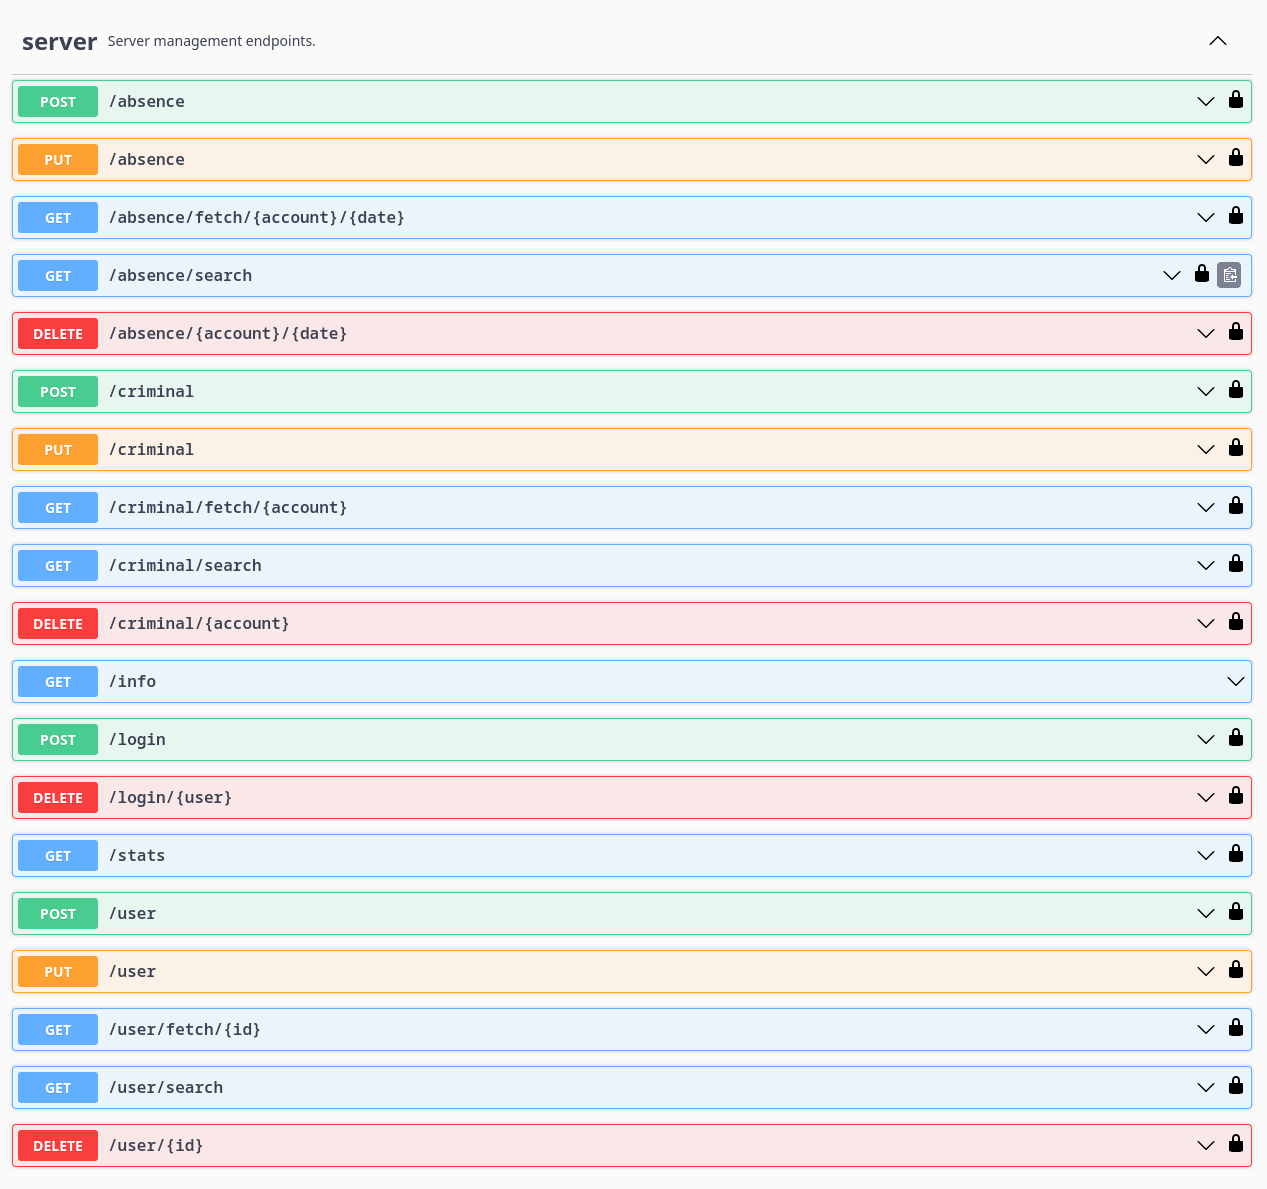
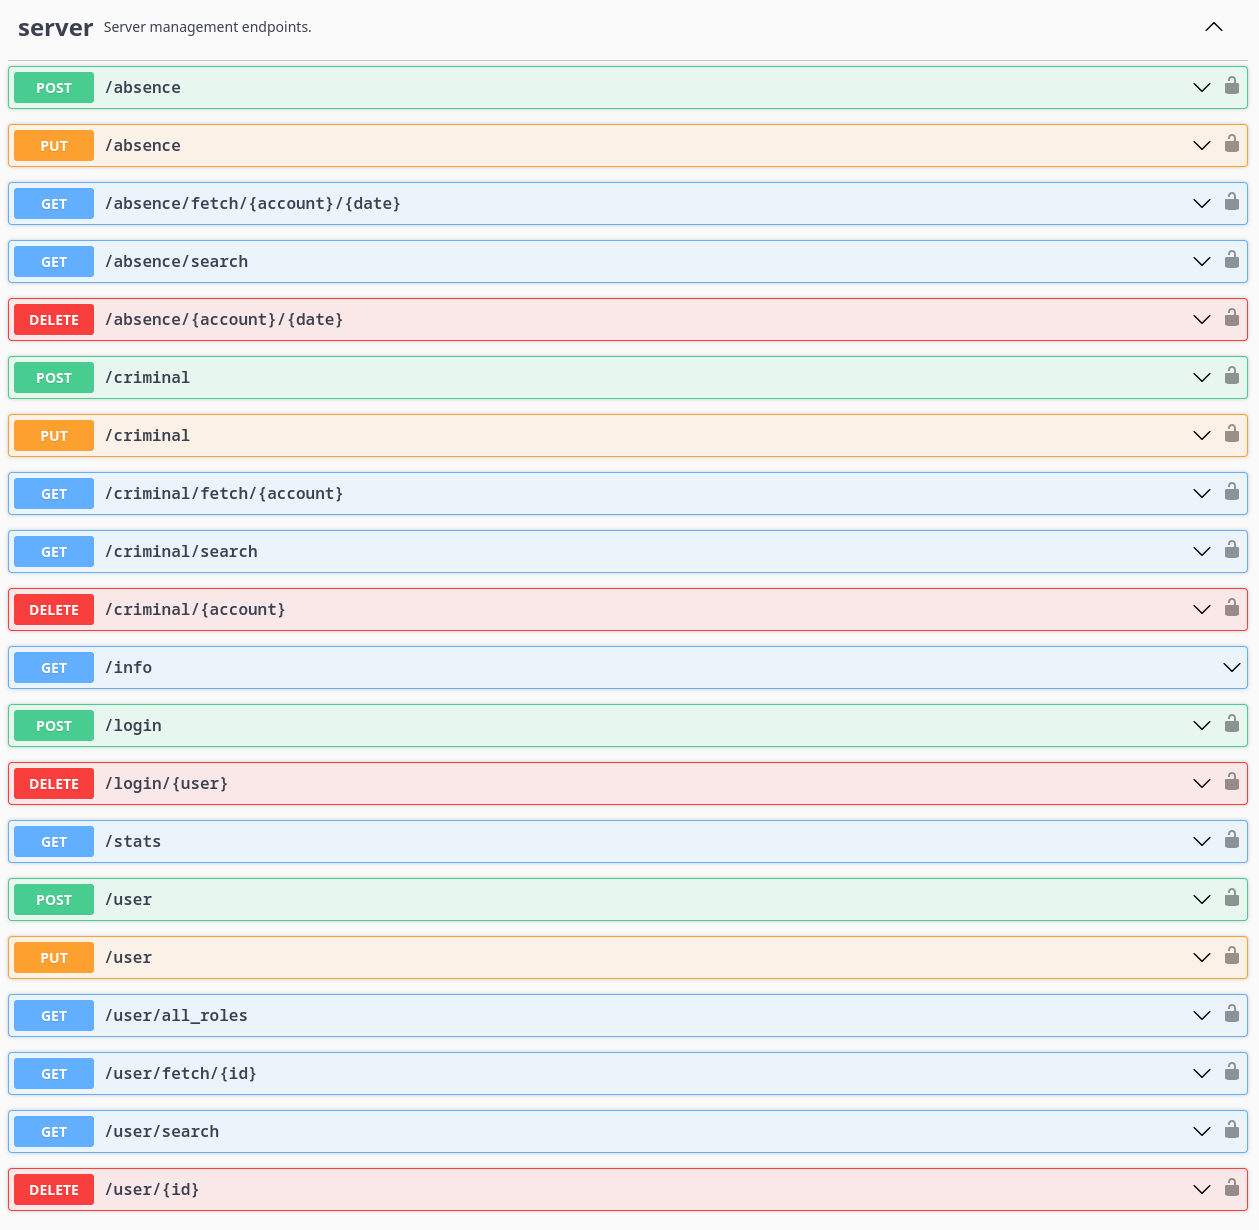
:sparkles: Added all roles route

Changed region(s): [[0.0, 0.0, 0.9913, 0.9958]]

diff --git a/src/db/user.rs b/src/db/user.rs
@@ -47,6 +47,21 @@ pub fn fetch(db: &Database, id: &str) -> Result<User> {
     )?)
 }
 
+/// Returns all roles from the user table
+pub fn all_roles(db: &Database) -> Result<Vec<String>> {
+    let mut stmt = db.con.prepare(
+        "select \
+        role \
+        from user",
+    )?;
+    let mut rows = stmt.query([])?;
+    let mut roles = Vec::new();
+    while let Some(row) = rows.next()? {
+        roles.push(row.get(0).unwrap());
+    }
+    Ok(roles)
+}
+
 /// Parameters for the advanced search
 ///
 /// Adding the '%' char allows every number of every character in this place
@@ -171,7 +186,7 @@ mod tests {
     use crate::db::project::{create, Database};
     use crate::db::user::{self, User, UserSearch};
     #[test]
-    fn add_update_remove_users() {
+    fn add_update_remove_users_all_roles() {
         let db = Database::memory().unwrap();
         create(&db).unwrap();
 
@@ -186,6 +201,10 @@ mod tests {
         let result = user::search(&db, UserSearch::new("%", "%"), 0).unwrap();
         assert_eq!(result.len(), 1);
         assert_eq!(result[0], user);
+
+        let result = user::all_roles(&db).unwrap();
+        assert_eq!(result.len(), 1);
+        assert_eq!(result[0], "Demo".to_string());
 
         user::update(
             &db,

diff --git a/src/server.rs b/src/server.rs
@@ -180,6 +180,22 @@ pub async fn fetch_user(auth: Auth<UserReadOnly>, id: &str) -> Json<Result<User>
 
 #[utoipa::path(
     responses(
+        (status = 200, description = "Got all Roles", body = Vec<String>),
+        (status = 401, description = "Unauthorized to get all Roles", body = Error, example = json!({"Err": Error::Unauthorized})),
+    ),
+    security (
+        ("authorization" = []),
+    )
+)]
+#[get("/user/all_roles")]
+pub async fn all_roles(auth: Auth<UserReadOnly>) -> Json<Result<Vec<String>>> {
+    warn!("GET /user/all_roles: {}", auth.user);
+    let db = Database::open(Cow::from(Path::new("./sndm.db"))).unwrap().0;
+    Json(db::user::all_roles(&db))
+}
+
+#[utoipa::path(
+    responses(
         (status = 200, description = "Searched all Users", body = Vec<User>),
         (status = 401, description = "Unauthorized to search all Users", body = Error, example = json!({"Err": Error::Unauthorized})),
     ),

diff --git a/src/main.rs b/src/main.rs
@@ -78,6 +78,7 @@ fn rocket() -> Rocket<Build> {
             server::info,
             server::stats,
             server::fetch_user,
+            server::all_roles,
             server::search_user,
             server::add_user,
             server::update_user,
@@ -141,6 +142,7 @@ fn rocket() -> Rocket<Build> {
                 server::info,
                 server::stats,
                 server::fetch_user,
+                server::all_roles,
                 server::search_user,
                 server::add_user,
                 server::update_user,

diff --git a/README.md b/README.md
@@ -36,6 +36,7 @@ The Server calls are:
 
 - 5 for each data table (user, criminal, absence)
 - 2 for logins (create, delete)
+- all_roles - to get all roles from user
 - stats - getting general statistics
 - info
 
